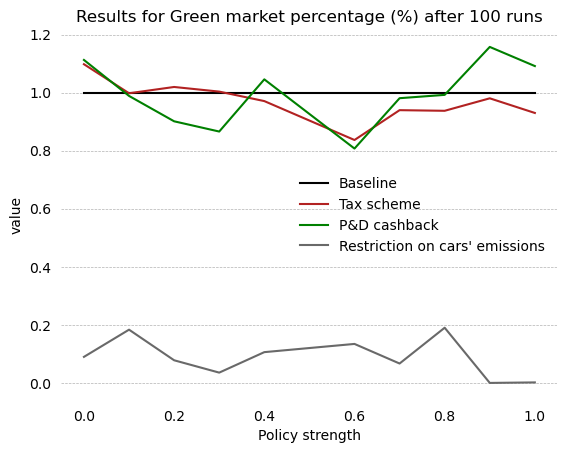
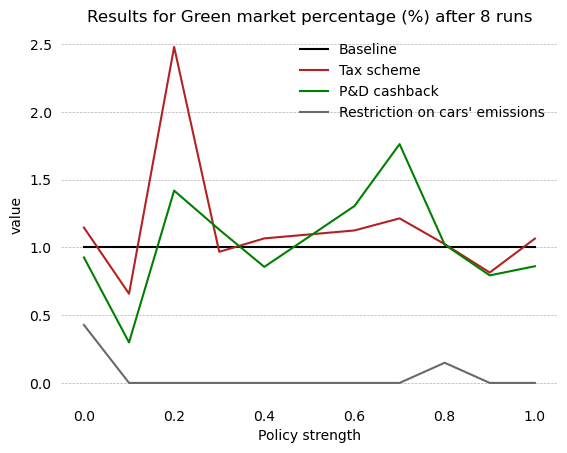
updating checking graphs runs

diff --git a/main.py b/main.py
@@ -55,6 +55,7 @@ def plot_details(ax):
 
 
 def plotting(results, n):
+    """ This function has been deprecated. None run is included above"""
     # Receives a dictionary of results for policies and inside Ts runs with DataFrame reports
     for pol in results:
         res = processing_averages(results[pol])
@@ -105,27 +106,32 @@ def plot_policies(results, levels, n):
 def policies(n=10, n_jobs=1):
     levels = [round(lev, 1) for lev in linspace(0, 1, 10)]
     pols = [None, 'tax', 'p_d', 'e_max']
+    # A dictionary of general results
     results = dict()
     for pol in pols:
+        # A dictionary for each policy results
         results[pol] = dict()
+        # Run for all levels specificed
         for level in levels:
             p = {'policy': pol, 'level': level}
             # For each run policy, when dictionary with all runs is saved.
             # Thus, result collected is a dictionary of dictionaries containing DataFrames
             results[pol][level] = dict()
 
+            # Run in parallel is the number of repetitions per level
             with Parallel(n_jobs=n_jobs) as parallel:
                 s = parallel(delayed(model.main)(p, verbose, seed) for i in range(n))
                 for i in range(n):
                     results[pol][level][i] = s[i].report.loc[39]
 
-            for i in range(n):
-                s = model.main(p, verbose, seed=seed)
-                results[pol][level][i] = s.report.loc[39]
+            # for i in range(n):
+            #     s = model.main(p, verbose, seed=seed)
+            #     results[pol][level][i] = s.report.loc[39]
     return results, levels, n
 
 
 def benchmark(n=10):
+    """ This function has been deprecated. None run is included above"""
     pol, level = None, None
     p = {'policy': pol, 'level': level}
     # For each run policy, when dictionary with all runs is saved.
@@ -139,10 +145,10 @@ def benchmark(n=10):
 
 if __name__ == '__main__':
     t0 = time.time()
-    m = 100
+    m = 8
     # Number of cpus that will run simultaneously
     cpus = 8
-    benchmark(m)
+    # benchmark(m)
     r, l, m = policies(m, cpus)
     plot_policies(r, l, m)
     print(f'This run took {time.time() - t0:.2f} seconds!')

diff --git a/model.py b/model.py
@@ -274,7 +274,7 @@ if __name__ == '__main__':
     # 2. Cashback on P&D investment: 'p_d'
     # 3. Ruling on max emissions: 'e_max'
     pols = [None, 'tax', 'p_d', 'e_max']
-    pols = pols[2]
-    for pol in pols:
-        p = {'policy': pol, 'level': level}
-        s = main(p, verbose=True)
+    # pols = pols[0]
+    pol = pols[3]
+    p = {'policy': pol, 'level': level}
+    s = main(p, verbose=False)
